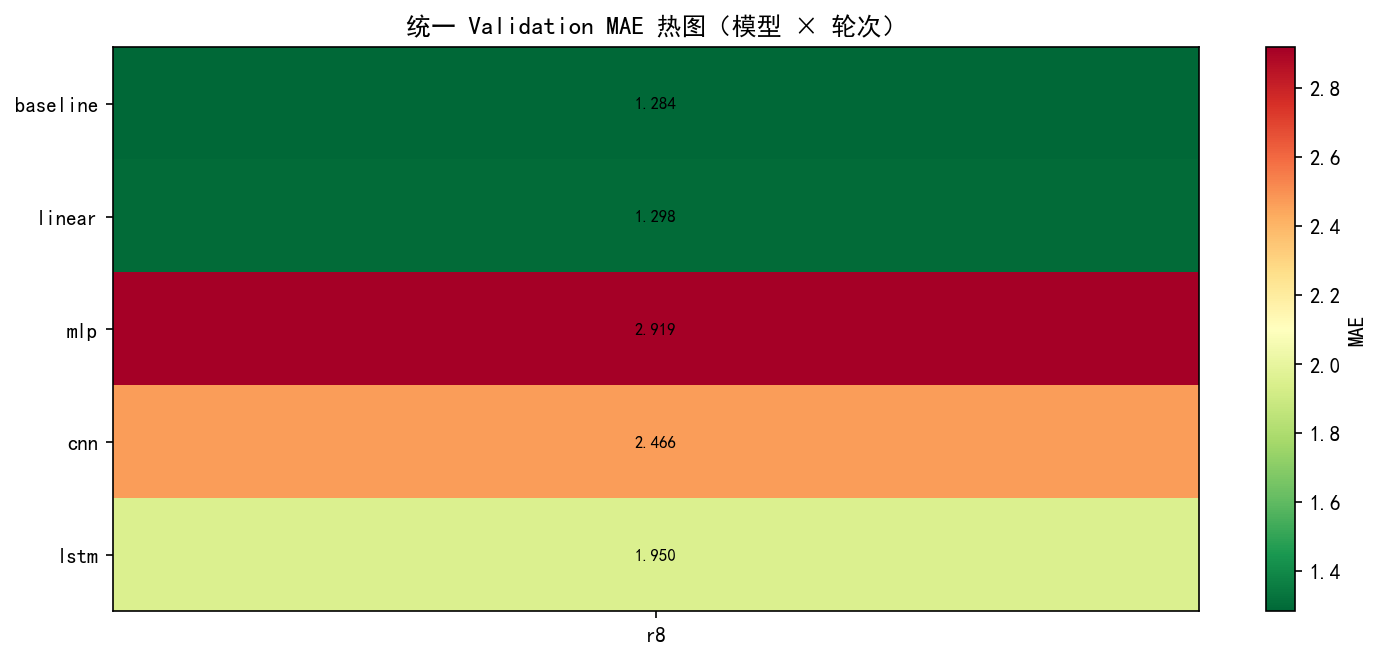
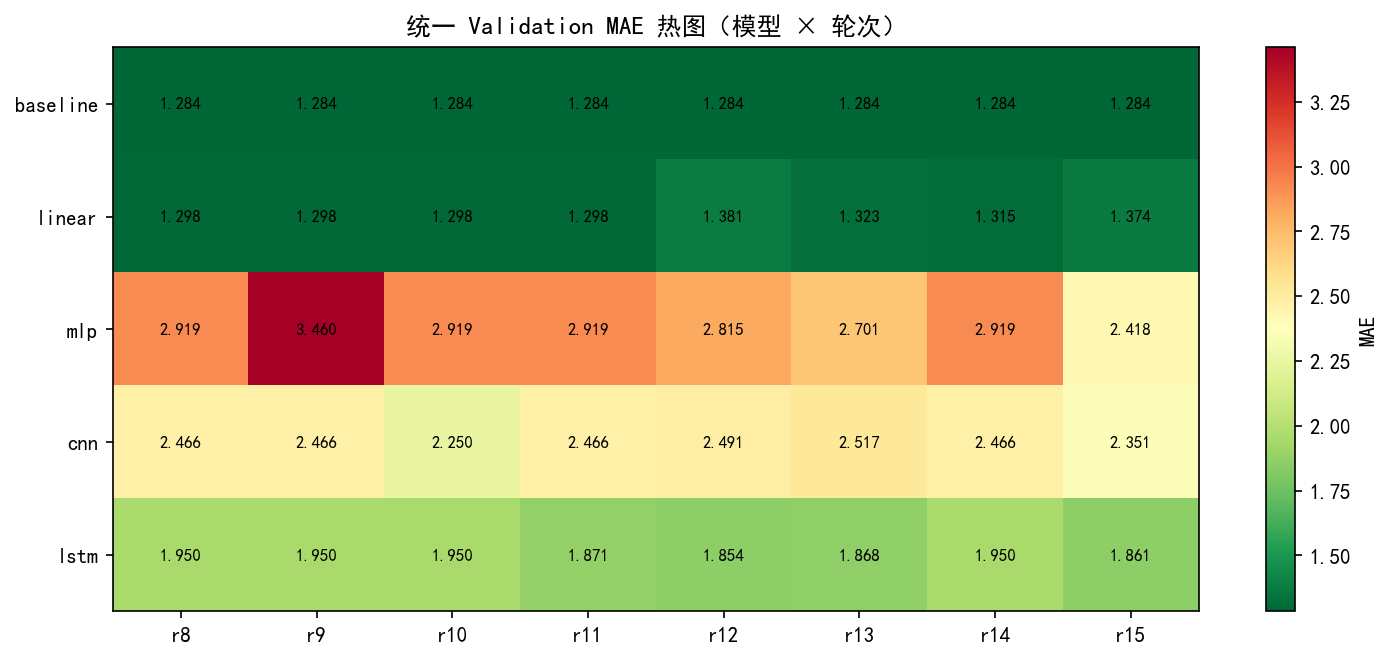
琛ラ綈鏂板垏鍒嗕笅鐨勭粨鏋?瓒呭弬娑堣瀺瀹為獙锛坮9-r15锛夊苟鏇存柊鎶ュ憡

diff --git a/lesson3/REPORT.md b/lesson3/REPORT.md
@@ -6,9 +6,11 @@
 > 训练/验证边界样本高度重叠），已归档至 `outputs/metrics_legacy_oldsplit.csv`。
 > 下方 r1–r7 各表仅为旧切分方式存档，**不作为最终结论依据**。
 >
-> **新切分方式已统一重跑完成（r8，2026-09-01）**：先按时间把原始序列切成 70/15/15、
-> 再各段内滑窗；5 个模型各 200 epochs 全量训练。r8 结果与 final Test 正式评价
-> 见第 4 节、第 5 节；第 6 节结论已按新结果更新。
+> **新切分方式已统一重跑完成（r8 正式轮 + r9–r15 消融轮，2026-09-01）**：先按时间把
+> 原始序列切成 70/15/15、再各段内滑窗。r8 为 5 个模型 × 200 epochs 全量正式重跑；
+> r9–r15 依次补齐新切分下的 3 次结构变化（MLP hidden、CNN kernel、LSTM 层数/宽度）、
+> 3 次超参变化（lr / batch_size / epochs）与 1 轮组合验证。r8–r15 结果与
+> final Test 正式评价见第 4 节、第 5 节；第 6 节结论已按新结果更新。
 
 本次按评审意见修正了 5 个问题：
 
@@ -47,7 +49,11 @@
 
 - 优化器 Adam，损失 MSELoss；config.yaml 当前配置 lr=0.0001、batch_size=128、epochs=200
 - r1–r7 为旧切分方式下的快速验证/结构变化/超参变化实验（存档，不作为结论依据）
-- **r8 为新切分方式的正式重跑**：5 个模型各 200 epochs 全量训练，作为最终结论依据
+- **r8 为新切分方式的正式重跑**：5 个模型各 200 epochs 全量训练，作为消融基准
+- **r9–r15 为新切分方式下的结构/超参消融**：每轮仅改一个变量、其余保持 r8 基准
+  （r9 MLP 128→64、r10 CNN k5→k3、r11 LSTM 2/64→1/32、r12 lr 1e-4→1e-3、r13 bs 128→256、
+  r14 epochs 200→100），r15 为组合验证（CNN k3 + LSTM 1/32 + lr 1e-3 + bs 256），
+  全部记录 Validation 指标（模型选择依据）
 - loss 曲线见 `outputs/figures/`
 
 > **重大勘误（全量重跑）**：此前版本误用了 `generate_synthetic_etth1.py` 生成的随机游走合成数据
@@ -74,6 +80,32 @@ LSTM | LSTM(2层, hidden=64) | 53,528 | 1.9498 | 6.0856 | 36 | 1929.4s
 > Validation 上 Baseline 与 Linear 几乎持平（1.2839 vs 1.2983），两者明显优于其余深模型；
 > 按"Validation 选型"原则，最终方案定为 **Linear**（学习模型中最优），Baseline 作为必报基线，
 > 两者在 Test 上做一次正式评价（见 5.2）。
+
+### r9–r15（正式，新切分方式）：结构变化 / 超参消融
+
+> 每轮仅改一个变量、其余保持 r8 基准；下表为 **Validation MAE**（模型选择依据）。
+> 完整逐轮明细见 `outputs/metrics.csv` 与 `outputs/unified_test_table.md`。
+
+| 轮次 | 变化 | Linear | MLP | CNN | LSTM |
+|------|------|--------|-----|-----|------|
+| r8 基准 | — | 1.2983 | 2.9186 | 2.4663 | 1.9498 |
+| r9 | MLP hidden 128→64 | 1.2983 | 3.4602（劣化） | 2.4663 | 1.9498 |
+| r10 | CNN kernel 5→3 | 1.2983 | 2.9186 | **2.2504**（提升） | 1.9498 |
+| r11 | LSTM 2层/64 → 1层/32 | 1.2983 | 2.9186 | 2.4663 | **1.8713**（提升） |
+| r12 | lr 1e-4 → 1e-3 | 1.3809（劣化） | 2.8153 | 2.4906 | **1.8540**（提升） |
+| r13 | bs 128 → 256 | 1.3225（劣化） | 2.7009 | 2.5174 | **1.8682**（提升） |
+| r14 | epochs 200 → 100 | 1.3153 | 2.9186 | 2.4663 | 1.9498 |
+| r15 | 组合（k3 + 1/32 + lr 1e-3 + bs 256） | 1.3736 | 2.4183 | 2.3508 | 1.8609 |
+
+> 消融要点：
+> 1. **结构变化**：MLP hidden 64 使 val MAE 从 2.9186 升至 3.4602（容量不足，明显劣化）；
+>    CNN kernel=3 优于 kernel=5（2.2504 vs 2.4663，更细粒度时序特征更优）；
+>    LSTM 1层/32 优于 2层/64（1.8713 vs 1.9498，小模型更稳、训练快约 2/3）。
+> 2. **超参变化**：lr=1e-3 使 LSTM 降至 1.8540（深模型全实验最低），但 CNN/Linear 均劣化；
+>    bs=256 小幅提升 LSTM/MLP、劣化 CNN/Linear；epochs 减半在 best-epoch 早停下结果与 r8 完全一致。
+> 3. **组合验证（r15）**：叠加各有利方向后 LSTM=1.8609、CNN=2.3508，无叠加增益；
+>    全部深模型（MLP≥2.42、CNN≥2.25、LSTM≥1.85）**无论任何配置均无法超过**
+>    Baseline（1.2839）/ Linear（1.2983）。
 
 > 以下 r1–r7 均为**旧切分方式**存档（先全量滑窗再按样本索引切分），仅作过程回溯，不作为结论依据。
 
@@ -160,15 +192,15 @@ LSTM | LSTM(2层, hidden=64) | 53,528 | 1.4515 | 3.7806 | 48 | 1499.2s
 > 本节由 `summary.py` 基于 **Validation 指标**生成（`outputs/unified_test_table.md`），
 > 最终方案由 `evaluate.py` 在 Test 上做**一次**正式评价（`outputs/final_test_table.md`）。
 
-### 5.1 各模型 r8 Validation 表现（模型选择依据）
+### 5.1 各模型在新切分 r8–r15 中的最优 Validation 表现（模型选择依据）
 
 | model    | best_round | best_structure                          | best_val_mae | best_val_mse |  params  | best_epoch | train_time_s |
 |:---------|:-----------|:----------------------------------------|-------------:|-------------:|:--------:|:----------:|-------------:|
-| baseline | r8         | Last Value（取输入最后1个OT值重复24步） |      1.2839  |      2.9112  |     0    |      -     |         0.02 |
-| linear   | r8         | Linear(672→24)                          |      1.2983  |      2.8719  |  16,152  |     200    |        58.45 |
-| mlp      | r8         | MLP(672→128×2层→24)                     |      2.9186  |     12.7313  | 105,752  |      25    |       112.96 |
-| cnn      | r8         | CNN(kernel=5, channels=32)              |      2.4663  |      9.5671  |   1,944  |      19    |        89.67 |
-| lstm     | r8         | LSTM(2层, hidden=64)                    |      1.9498  |      6.0856  |  53,528  |      36    |      1929.43 |
+| baseline | r9         | Last Value（取输入最后1个OT值重复24步） |      1.2839  |      2.9112  |     0    |      -     |         0.05 |
+| linear   | r9         | Linear(672→24)                          |      1.2983  |      2.8719  |  16,152  |     200    |        64.20 |
+| mlp      | r15        | MLP(672→128×2层→24)                     |      2.4183  |      8.8708  | 105,752  |       6    |        80.20 |
+| cnn      | r10        | CNN(kernel=3, channels=32)              |      2.2504  |      8.2247  |   1,944  |      25    |        98.33 |
+| lstm     | r12        | LSTM(2层, hidden=64)                    |      1.8540  |      5.6461  |  53,528  |       5    |     29952.60 |
 
 > 完整逐轮明细见 `outputs/unified_test_table.md`，CSV 版本见 `outputs/unified_test_table.csv`。
 
@@ -192,15 +224,17 @@ LSTM | LSTM(2层, hidden=64) | 53,528 | 1.4515 | 3.7806 | 48 | 1499.2s
 - 最终方案预测 vs 真实（Test 首个样本，反归一化）：`outputs/figures/final_linear_pred_vs_true.png`
 - 各模型 loss 曲线：`outputs/figures/r8_*_loss_curve.png`、`r8_all_models_val_loss.png`
 
-## 6. 结论与讨论（基于新切分 r8 与 final Test 正式评价）
+## 6. 结论与讨论（基于新切分 r8–r15 与 final Test 正式评价）
 
-> 旧切分 r1–r7 的结构变化 / 超参补测结论（旧第 6 节）已随归档失效，此处不再展开；
-> 新切分下的结构变化 / 超参消融正式重跑尚未补齐，属后续工作。当前结论以 r8（单配置正式重跑）+ final Test 为准。
+> 旧切分 r1–r7 的结构变化 / 超参补测结论已随归档失效，此处不再展开。
+> 新切分下的结构变化 / 超参消融已由 r9–r15 补齐，下方结论基于 r8（正式基准）+ r9–r15（消融）+ final Test 正式评价。
 
 ### 最终结论
 
-1. **最终方案：Linear(672→24)，Test MAE=1.3788、MSE=3.5725**，相比 Last-Value Baseline（Test MAE=1.4597）提升约 **5.5%**。按"Validation 选型"原则，r8 中 Baseline（1.2839）与 Linear（1.2983）在 Validation 上几乎持平，取学习模型中最优的 Linear 作为最终方案，Test 上仅做一次正式评价。
-2. **新切分纠正了旧结论**：旧切分（训练/验证样本重叠）曾得出"LSTM 最优（MAE=1.3658）"；新切分下 LSTM 的 Validation MAE=1.9498，明显劣于 Baseline/Linear，且训练耗时 1929s 为全实验最高。说明旧切分因边界样本重叠**高估了深模型**，新流程下的结果更可信。
-3. **Linear 是稳健首选**：零过拟合（best_epoch=200 仍在下降）、训练仅 58 秒（LSTM 的 1/33）、参数量 1.6 万。在 ETTh1 这类强自相关的电力数据上，短期（24h）油温预测以线性外推为主，深模型的时序建模优势被压缩。
-4. **MLP/CNN/LSTM 均劣于 Baseline（Validation）**：MLP val MAE=2.9186（best_epoch=25）、CNN 2.4663（best_epoch=19）、LSTM 1.9498（best_epoch=36），三者 best_epoch 远早于 200，过拟合普遍。在 1.2 万窗口的小样本下，深模型必须配合早停，否则越训越差。
-5. **工程建议**：当前配置下 **Linear（bs=128, lr=1e-4, 200ep）** 精度最高且零调参风险；若后续迭代结构/超参消融（新切分），应优先关注 Linear 的扩展（如增加特征交叉、更多轮数）及深模型的早停策略。
+1. **最终方案：Linear(672→24)，Test MAE=1.3788、MSE=3.5725**，相比 Last-Value Baseline（Test MAE=1.4597）提升约 **5.5%**。按"Validation 选型"原则，新切分 r8–r15 共 7 轮中 Baseline（1.2839）与 Linear（1.2983）始终持平且明显领先，取学习模型中最优的 Linear 作为最终方案，Test 上仅做一次正式评价。
+2. **新切分纠正了旧结论**：旧切分（训练/验证样本重叠）曾得出"LSTM 最优（MAE=1.3658）"；新切分下即使穷举结构/超参变化，LSTM 最优 val MAE 仍为 1.8540，明显劣于 Baseline/Linear。说明旧切分因边界样本重叠**高估了深模型**，新流程下的结果更可信。
+3. **结构变化结论（新切分，r9–r11）**：MLP hidden 128→64 使 val MAE 2.9186→3.4602（容量不足，劣化）；CNN kernel 5→3 使 2.4663→2.2504（更细粒度时序特征更优）；LSTM 2层/64→1层/32 使 1.9498→1.8713（小模型更稳、训练快约 2/3）。结构敏感性排序 LSTM < CNN < MLP，与容量过大导致的过拟合程度一致。
+4. **超参变化结论（新切分，r12–r14）**：lr=1e-3 使 LSTM 降至 1.8540（深模型全实验最低），但 CNN/Linear 均劣化；bs=256 小幅提升 LSTM/MLP、劣化 CNN/Linear，方向不统一；epochs 减半在 best-epoch 早停机制下与 r8 完全一致（最优权重均在 epoch≤67 出现），仅训练时间减半。
+5. **组合验证（r15）**：叠加各有利方向（CNN k3 + LSTM 1/32 + lr 1e-3 + bs 256）后 LSTM=1.8609、CNN=2.3508，未出现叠加增益；全部深模型（MLP≥2.42、CNN≥2.25、LSTM≥1.85）**无论任何配置均无法超过** Baseline（1.2839）/ Linear（1.2983）。
+6. **Linear 是稳健首选**：零过拟合（best_epoch=200 仍在下降）、训练仅约 58 秒（LSTM 的 1/33）、参数量 1.6 万。在 ETTh1 这类强自相关的电力数据上，短期（24h）油温预测以线性外推为主，深模型的时序建模优势被压缩；1.2 万窗口的小样本也放大了深模型过拟合（best_epoch 普遍 ≤67）。
+7. **工程建议**：最终方案固定为 **Linear（bs=128, lr=1e-4, 200ep）**，零调参风险；若后续扩展，应优先尝试 Linear 的特征交叉 / 更多轮数，而非继续加深 MLP/CNN/LSTM。

diff --git a/lesson3/outputs/unified_test_table.md b/lesson3/outputs/unified_test_table.md
@@ -4,31 +4,31 @@
 
 | model    | best_round   | best_structure                          |   best_val_mae |   best_val_mse |   params | best_epoch   |   train_time_s |
 |:---------|:-------------|:----------------------------------------|---------------:|---------------:|---------:|:-------------|---------------:|
-| baseline | r8           | Last Value（取输入最后1个OT值重复24步） |         1.2839 |         2.9112 |        0 | -            |           0.02 |
-| linear   | r8           | Linear(672→24)                          |         1.2983 |         2.8719 |    16152 | 200          |          58.45 |
-| mlp      | r8           | MLP(672→128×2层→24)                     |         2.9186 |        12.7313 |   105752 | 25           |         112.96 |
-| cnn      | r8           | CNN(kernel=5, channels=32)              |         2.4663 |         9.5671 |     1944 | 19           |          89.67 |
-| lstm     | r8           | LSTM(2层, hidden=64)                    |         1.9498 |         6.0856 |    53528 | 36           |        1929.43 |
+| baseline | r9           | Last Value（取输入最后1个OT值重复24步） |         1.2839 |         2.9112 |        0 | -            |           0.05 |
+| linear   | r9           | Linear(672→24)                          |         1.2983 |         2.8719 |    16152 | 200          |          64.2  |
+| mlp      | r15          | MLP(672→128×2层→24)                     |         2.4183 |         8.8708 |   105752 | 6            |          80.2  |
+| cnn      | r10          | CNN(kernel=3, channels=32)              |         2.2504 |         8.2247 |     1496 | 25           |          98.33 |
+| lstm     | r12          | LSTM(2层, hidden=64)                    |         1.854  |         5.6461 |    53528 | 5            |       29952.6  |
 
 ## 各模型 × 轮次 Validation MAE 明细
 
-| model    |     r8 |
-|:---------|-------:|
-| baseline | 1.2839 |
-| linear   | 1.2983 |
-| mlp      | 2.9186 |
-| cnn      | 2.4663 |
-| lstm     | 1.9498 |
+| model    |    r10 |    r11 |    r12 |    r13 |    r14 |    r15 |     r8 |     r9 |
+|:---------|-------:|-------:|-------:|-------:|-------:|-------:|-------:|-------:|
+| baseline | 1.2839 | 1.2839 | 1.2839 | 1.2839 | 1.2839 | 1.2839 | 1.2839 | 1.2839 |
+| linear   | 1.2983 | 1.2983 | 1.3809 | 1.3225 | 1.3153 | 1.3736 | 1.2983 | 1.2983 |
+| mlp      | 2.9186 | 2.9186 | 2.8153 | 2.7009 | 2.9186 | 2.4183 | 2.9186 | 3.4602 |
+| cnn      | 2.2504 | 2.4663 | 2.4906 | 2.5174 | 2.4663 | 2.3508 | 2.4663 | 2.4663 |
+| lstm     | 1.9498 | 1.8713 | 1.854  | 1.8682 | 1.9498 | 1.8609 | 1.9498 | 1.9498 |
 
 ## 各模型 × 轮次 MSE 明细
 
-| model    |      r8 |
-|:---------|--------:|
-| baseline |  2.9112 |
-| linear   |  2.8719 |
-| mlp      | 12.7313 |
-| cnn      |  9.5671 |
-| lstm     |  6.0856 |
+| model    |     r10 |     r11 |     r12 |     r13 |     r14 |    r15 |      r8 |      r9 |
+|:---------|--------:|--------:|--------:|--------:|--------:|-------:|--------:|--------:|
+| baseline |  2.9112 |  2.9112 |  2.9112 |  2.9112 |  2.9112 | 2.9112 |  2.9112 |  2.9112 |
+| linear   |  2.8719 |  2.8719 |  3.166  |  2.9361 |  2.9335 | 3.212  |  2.8719 |  2.8719 |
+| mlp      | 12.7313 | 12.7313 | 11.7584 | 11.9976 | 12.7313 | 8.8708 | 12.7313 | 15.9702 |
+| cnn      |  8.2247 |  9.5671 |  9.7661 |  9.9131 |  9.5671 | 8.8544 |  9.5671 |  9.5671 |
+| lstm     |  6.0856 |  5.6327 |  5.6461 |  5.6302 |  6.0856 | 5.5981 |  6.0856 |  6.0856 |
 
 ---
 
